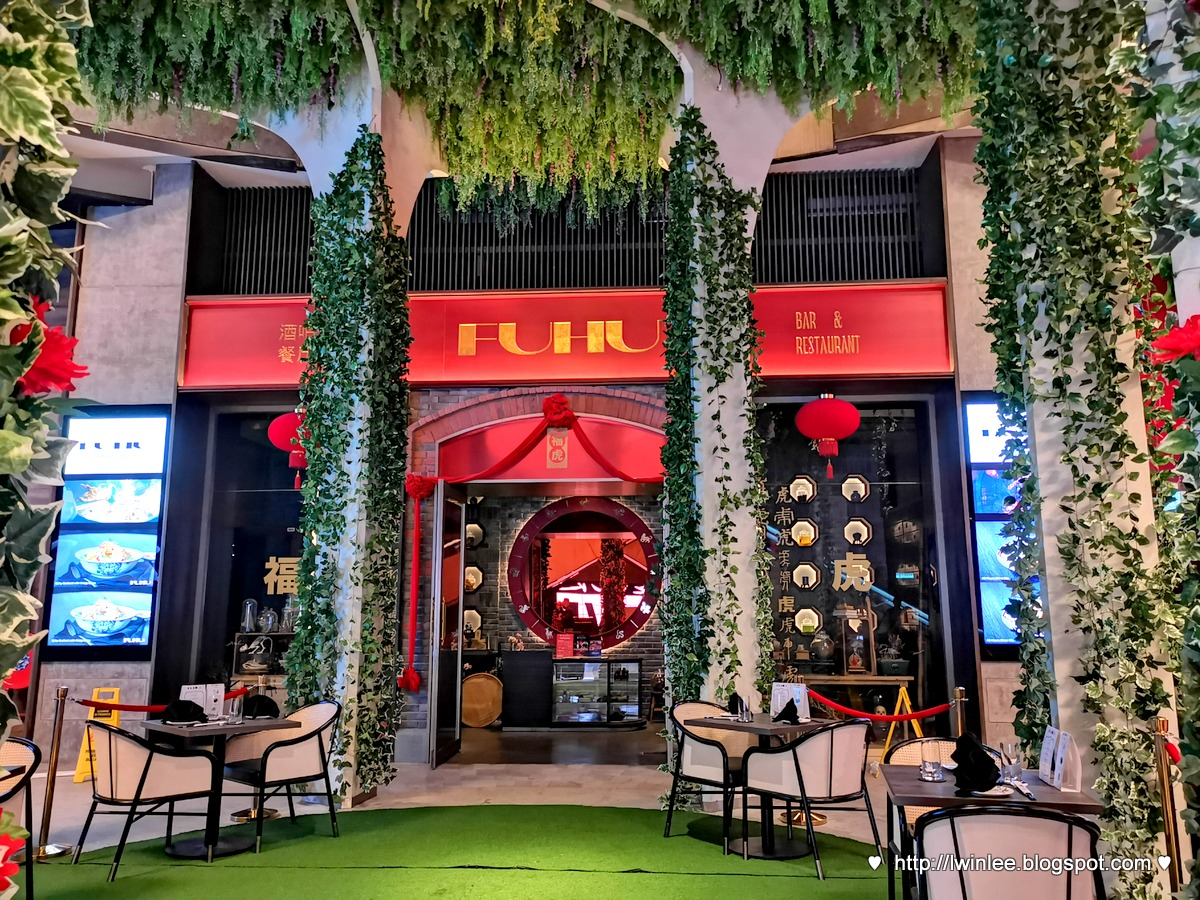
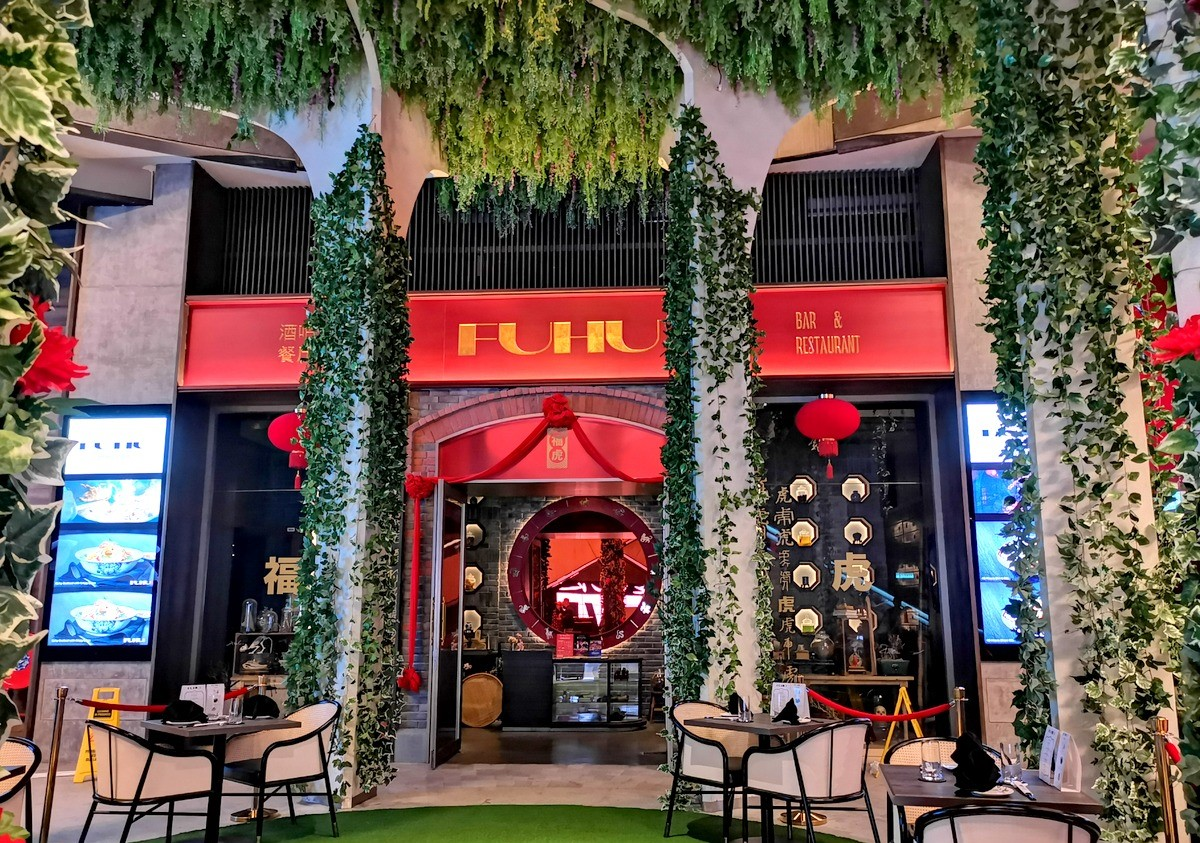
genting image none parallax, place some padding

diff --git a/genting_highlands_page.html b/genting_highlands_page.html
@@ -136,7 +136,7 @@
             </div>
         </div>
 
-        <div class="container-lg p-0" id="gentingskyway">
+        <div class="p-0" id="gentingskyway">
             <h2 class="pt-4 pb-4 m-0 text-center fontJomhuria font-80 p-relative">Genting Skyway</h2>
             <h3 class="ms-5 me-5 pt-2 fontJomhuria font-60 text-center m-0 p-relative">Accessible attractions</h3>
             <div id="intro-slide">
@@ -225,7 +225,9 @@
                     </div>
                     <div class="col-1"></div>
                 </div>
-                <div class="parallax mt-4" id="shudaxia-parallax"></div>
+                <div class="parallax ms-5 mt-4 me-5" id="shudaxia-parallax">
+                    <img src="img/shudaxia.jpg" alt="picture" width="100%">
+                </div>
             </div>
             <div id="fuhu">
                 <h2 class="fontJomhuria text-center font-80 mt-4">Fuhu Bar & Restaurant</h2>
@@ -257,7 +259,9 @@
                     </div>
                     <div class="col-1"></div>
                 </div>
-                <div class="parallax mt-4" id="fuhu-parallax"></div>
+                <div class="parallax ms-5 mt-4 me-5 mb-5" id="fuhu-parallax">
+                    <img src="img/fuhufront.jpg" alt="picture" width="100%">
+                </div>
             </div>
         </div>
 

diff --git a/css/genting_highlands_style.css b/css/genting_highlands_style.css
@@ -229,22 +229,6 @@
     --bs-btn-disabled-border-color: #0d6efd
 }
 
-.parallax {
-    min-height: 700px;
-    background-attachment: fixed;
-    background-position: center;
-    background-repeat: no-repeat;
-    background-size: cover;
-}
-
-#shudaxia-parallax {
-    background-image: url(../img/shudaxia.jpg);
-}
-
-#fuhu-parallax {
-    background-image: url(../img/fuhufront.jpg);
-}
-
 @media screen and (max-width: 992px) {
 
 
@@ -467,6 +451,12 @@
 
     #fuhu .col-4 p {
         margin: 24px;
+    }
+}
+
+@media screen and (max-width: 576px) {
+    #theme-park {
+        height: 1550px;
     }
 }
 

diff --git a/css/places_style.css b/css/places_style.css
@@ -328,6 +328,13 @@
     }
 }
 
+@media screen and (max-width: 576px) {
+    .ms-phone-padding {
+        padding-left: 24px;
+        padding-bottom: 24px;
+    }
+}
+
 @media screen and (max-width: 415px) {
     #main_page_img h1 {
         font-size: 100px;
